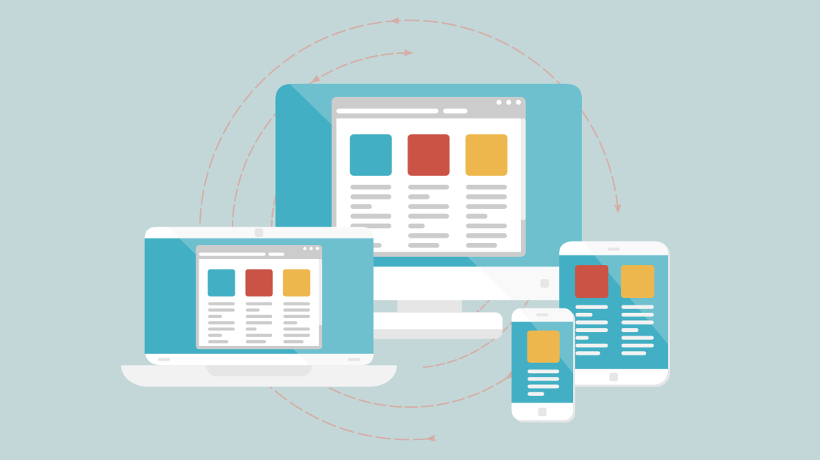
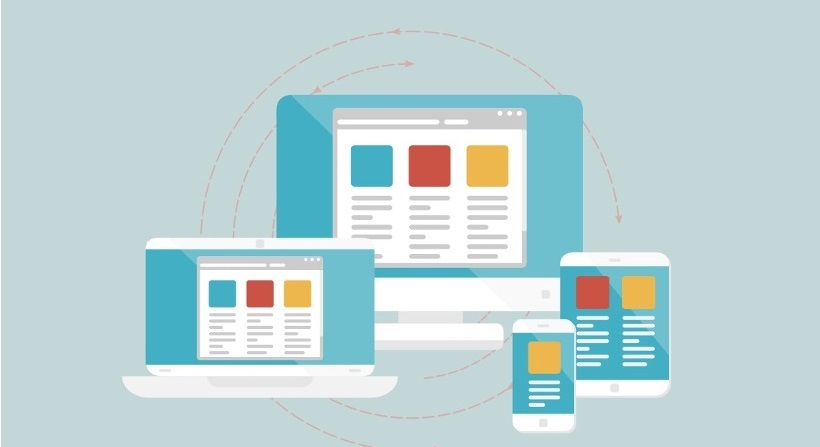
simple description for multi platform

diff --git a/index.html b/index.html
@@ -64,55 +64,53 @@
 
     <div class="row main_page_head home-page-block multiPlat">
       <div class = "col s6 offset-s6 sideViewright">
-        <h3 class="yellow">Why wire is better and safer than cards and cash? </h3>
-        <a class="btn-large right waves-effect waves-light
-        home-sign-up-btn app-light-red">Learn more</a>
+
+        <h3 class="yellow">Cross-platform</h3>
+
       </div>
 
     </div>
 
 
-    <div class="section no-pad-bot" id="index-banner">
-        <div class="container">
-            <br><br>
-            <h1 class="header center orange-text">Some title</h1>
-            <div class="row center">
-                <h5 class="header col s12 light">Some description</h5>
-            </div>
-            <div class="row center">
-                <a class="btn-large waves-effect waves-light orange">Sign up</a>
-            </div>
-            <br>
-            <br>
-        </div>
-    </div>
+
 
 
     <div class="container">
         <div class="section">
             <!--   Icon Section   -->
             <div class="row">
-                <div class="col s12 m4">
+                <div class="col s12 m3">
                     <div class="icon-block">
                         <h2 class="center light-blue-text"><i class="material-icons">flash_on</i></h2>
-                        <h5 class="center">Feature 1</h5>
-                        <p class="light">Describe feature 1</p>
+                        <h5 class="center">Mobile</h5>
+                        <p class="light">pay and get paid on your mobile terminal fast and secure. We use NFC, and QR code to process the transaction, and we use SSL end to end encryption and TCP protocol to makre sure your information is safe. </p>
                     </div>
                 </div>
-                <div class="col s12 m4">
+                <div class="col s12 m3">
                     <div class="icon-block">
                         <h2 class="center light-blue-text"><i class="material-icons">group</i></h2>
-                        <h5 class="center">Feature 2</h5>
-                        <p class="light">Describe feature 2</p>
+                        <h5 class="center">Web</h5>
+                        <p class="light">Process larger scale transaction, deposit, and withdraw on the web front, manage your financial well being, and discover the endless opportunity here on web. </p>
                     </div>
                 </div>
-                <div class="col s12 m4">
+                <div class="col s12 m3">
                     <div class="icon-block">
-                        <h2 class="center light-blue-text"><i class="material-icons">settings</i></h2>
-                        <h5 class="center">Feature 3</h5>
-                        <p class="light">Describe feature 3</p>
+                        <h2 class="center light-blue-text"><i class="material-icons">Integration</i></h2>
+                        <h5 class="center">Integration</h5>
+                        <p class="light">Are you a store owner? We ve got you. Wire provides a set of transactio tools, as well as core chips for you to develop your own custom machine. </p>
                     </div>
                 </div>
+
+                <div class="col s12 m3">
+                    <div class="icon-block">
+                        <h2 class="center light-blue-text"><i class="material-icons">Integration</i></h2>
+                        <h5 class="center">API and Platform</h5>
+                        <p class="light">Are you a developer? Good news is for you, wire provides API which you can embed in your program. Wire also offers an open source platform on which you can develop your own application within wire. </p>
+                    </div>
+                </div>
+
+
+
             </div>
         </div>
         <br>

diff --git a/css/styles.css b/css/styles.css
@@ -82,7 +82,7 @@ nav .menu-button-collapse i {
 }
 
 .home-page-block {
-    height: 60vh;
+    height: 80vh;
 }
 
 .home-catch-phrase-block {

diff --git a/css/style.css b/css/style.css
@@ -119,5 +119,5 @@
 
 .multiPlat{
   background-image: url(../res/multi.jpg);
-
+  height: 30vh;
 }
